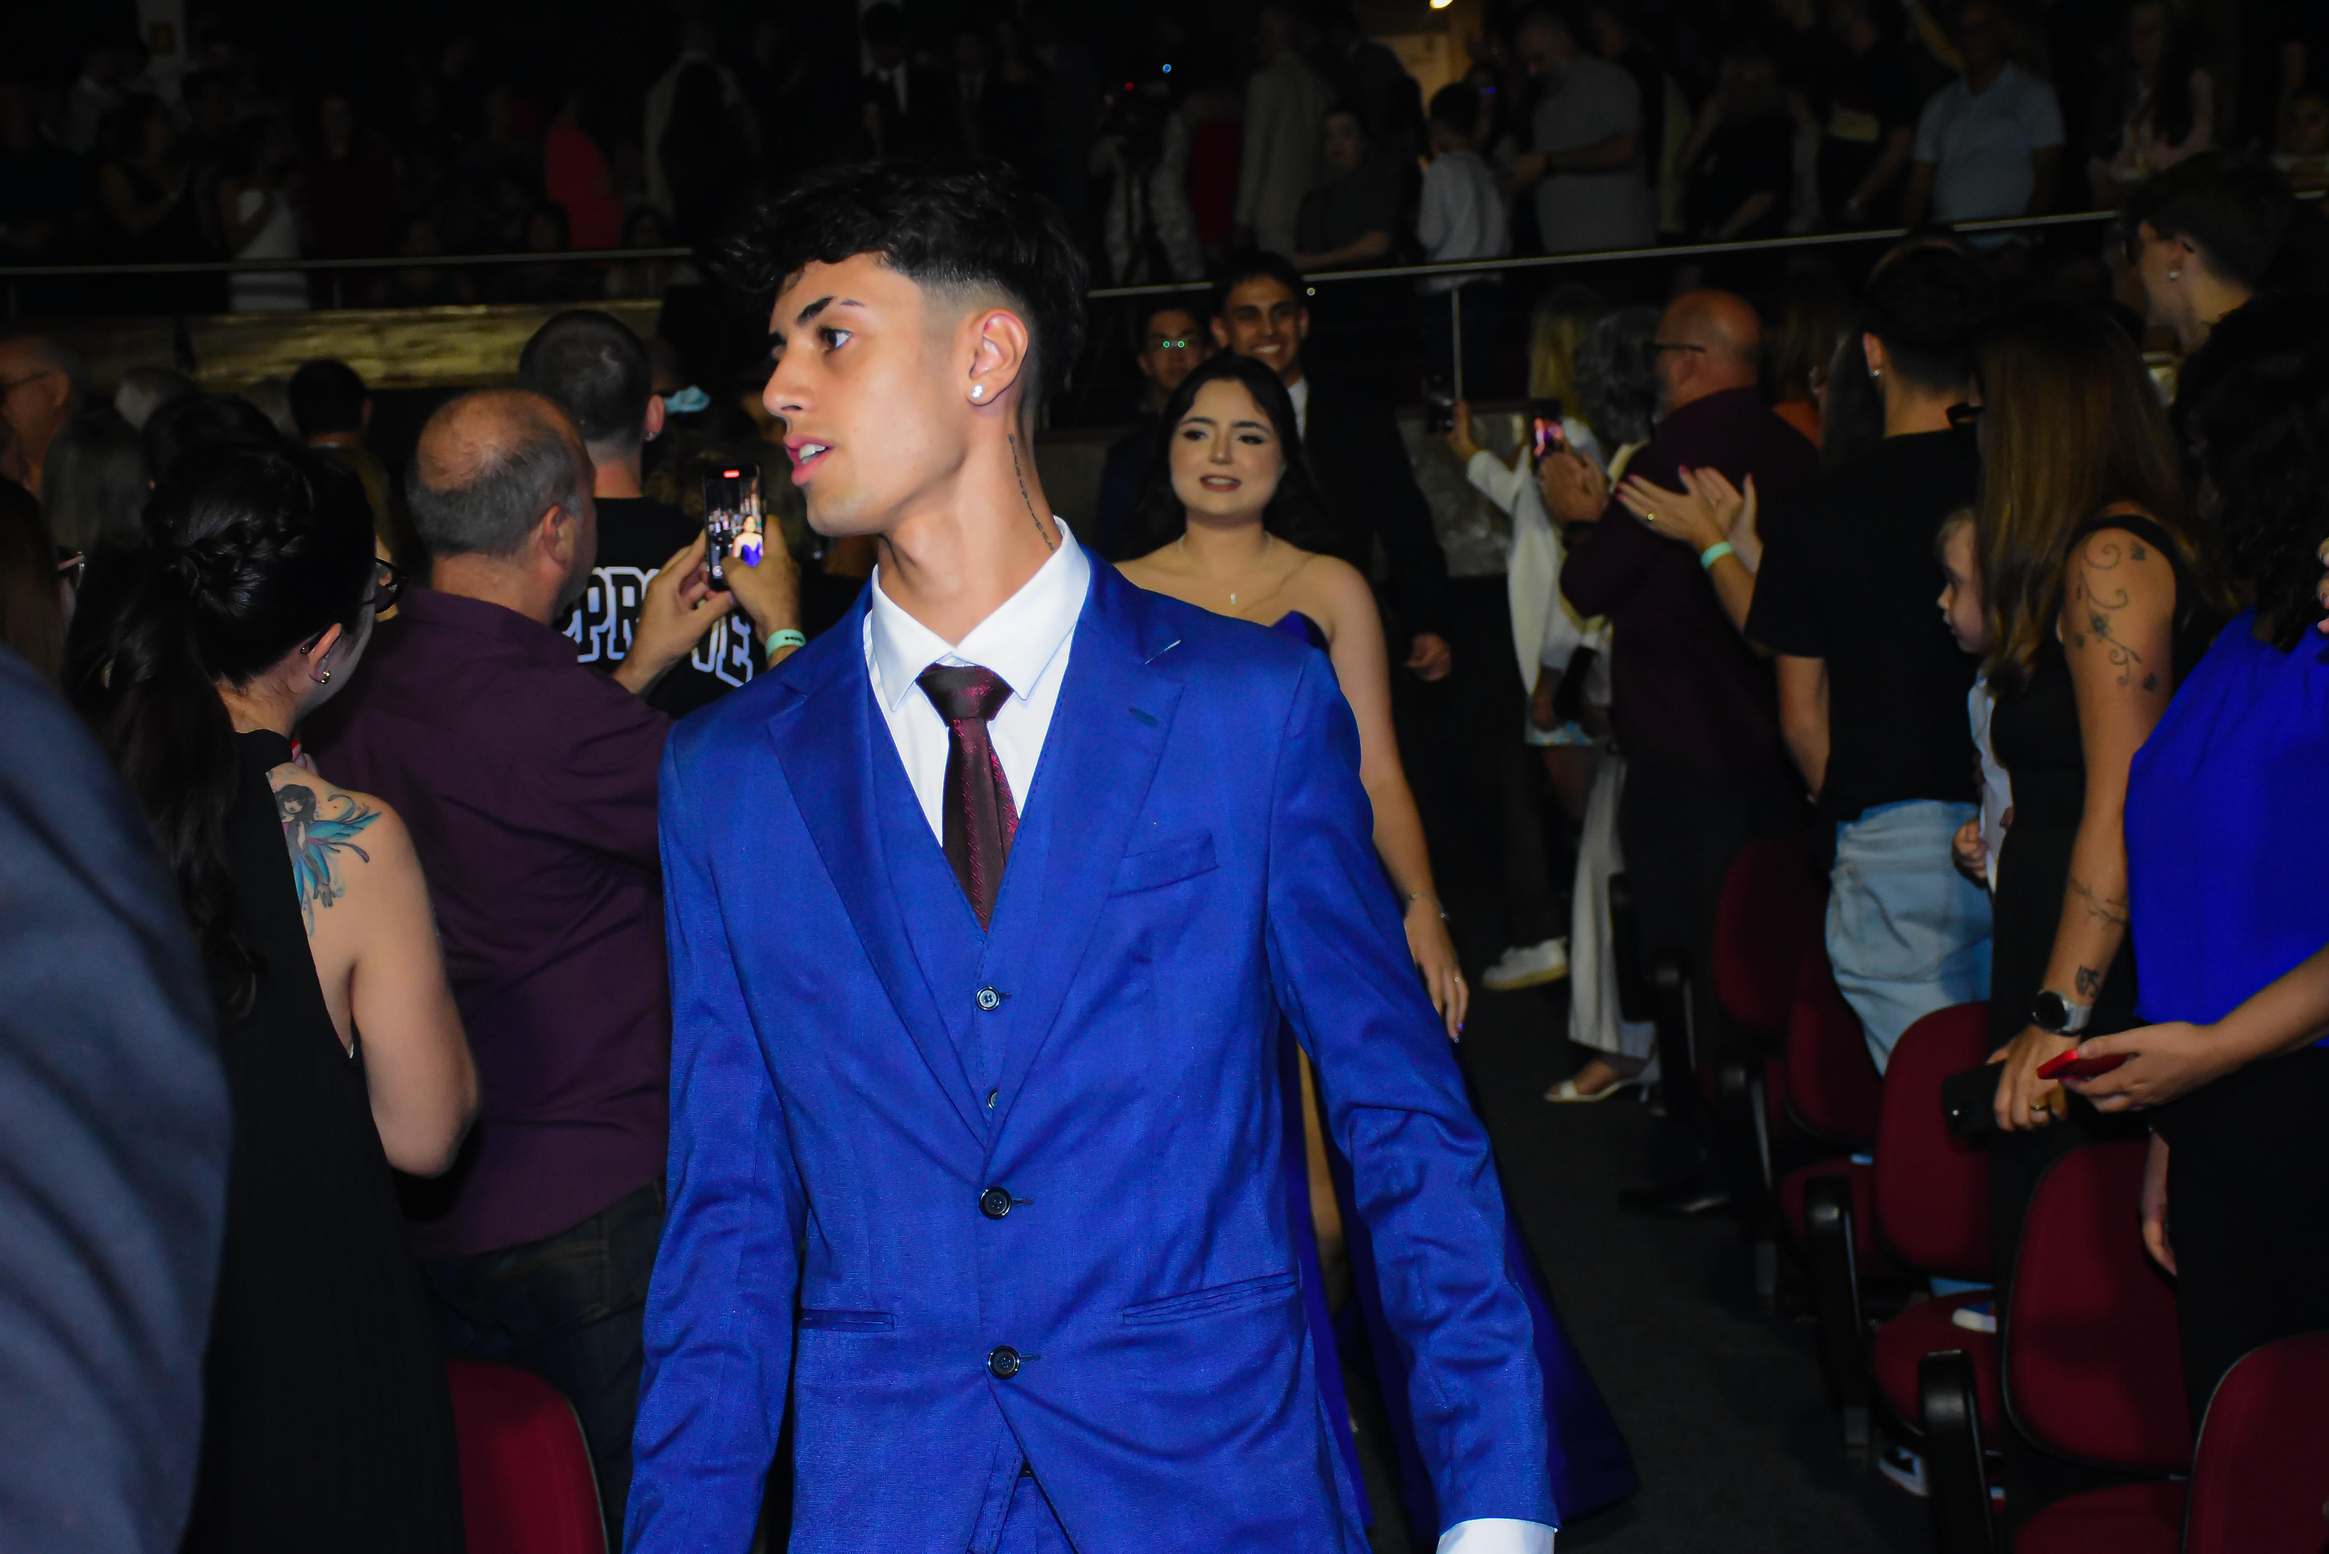
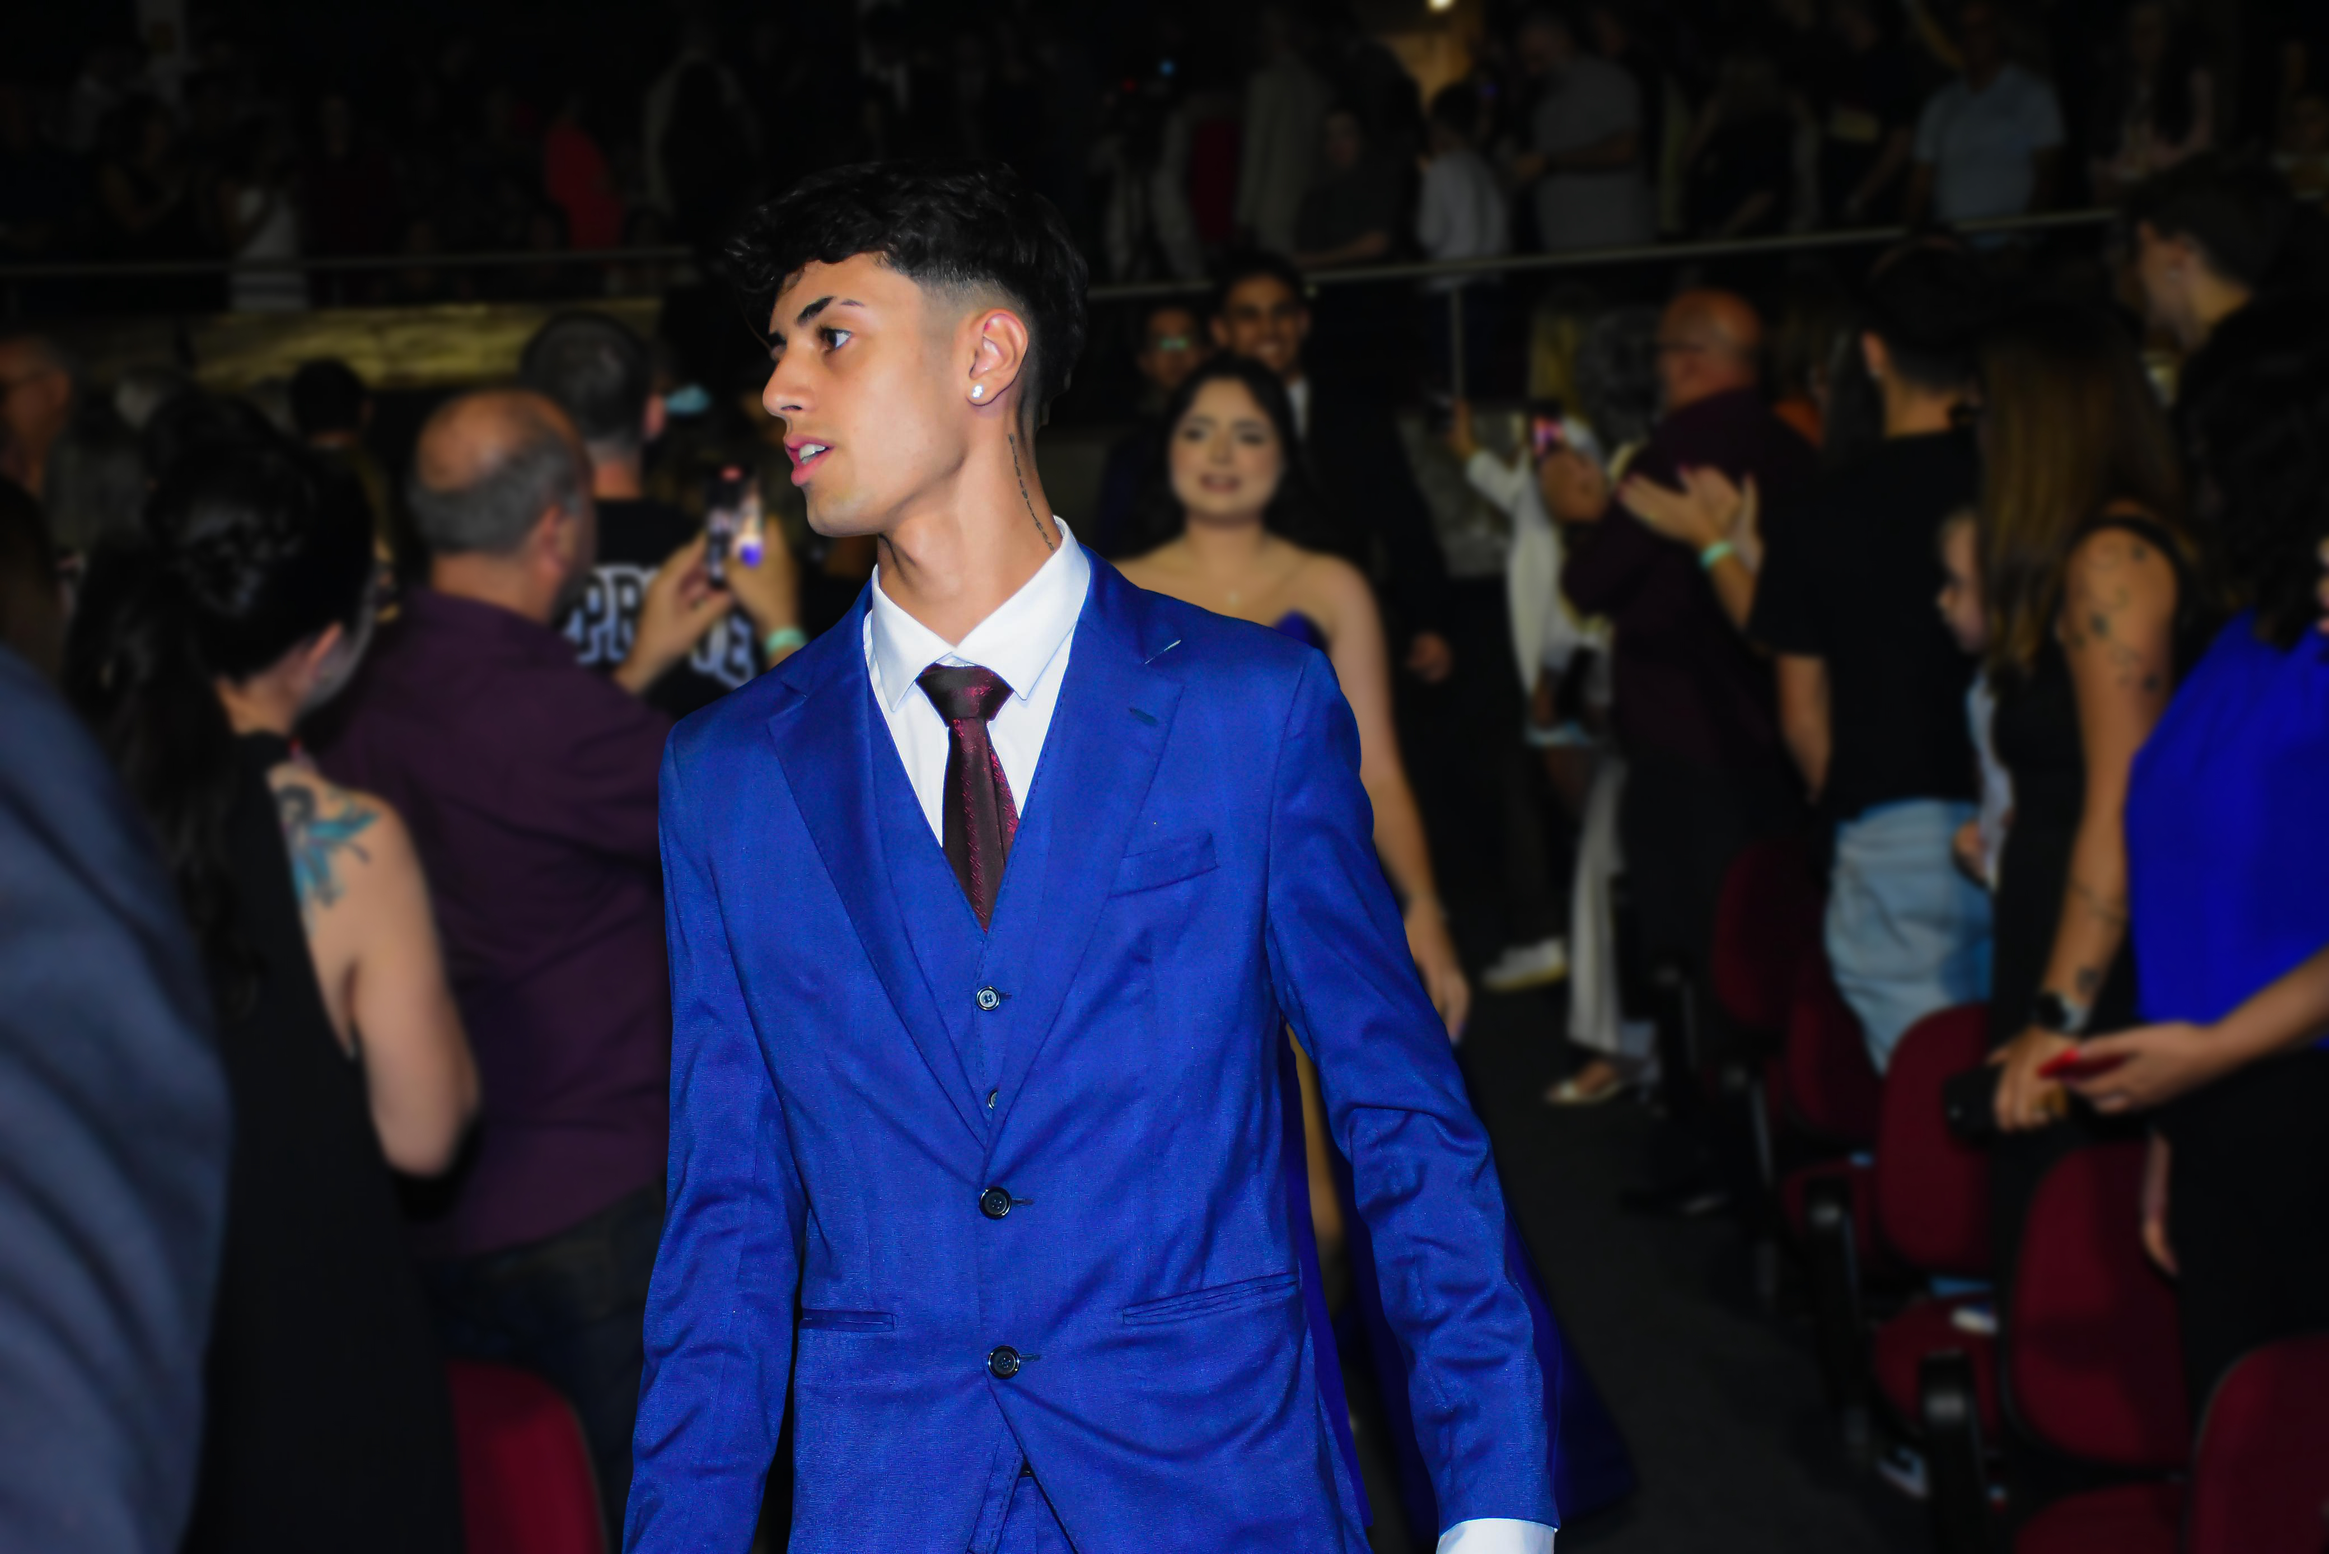
fundo blackout, remoção de bugs e ajuste de texto no hero

diff --git a/assets/css/style.css b/assets/css/style.css
@@ -227,17 +227,20 @@ h6 {
 
 /*--------------------------------------------------------------
 # Hero Section
---------------------------------------------------------------*/
+/*--------------------------------------------------------------*/
 #hero {
   width: 100%;
   height: 100vh;
   background: url("../img/hero-bg.jpg") top center;
   background-size: cover;
+  display: flex;
+  justify-content: flex-end; /* Empurra o conteúdo para a direita */
+  align-items: center;       /* Centraliza o texto verticalmente */
 }
 
 #hero:before {
   content: "";
-  background: rgba(5, 13, 24, 0.3);
+  background: rgba(5, 13, 24, 0.4); /* Escurece um pouco para dar mais leitura no fundo */
   position: absolute;
   bottom: 0;
   top: 0;
@@ -250,6 +253,8 @@ h6 {
   position: relative;
   z-index: 2;
   min-width: 300px;
+  margin-left: 25%;        /* Distância da borda direita */
+  text-align: left;         /* Mantém o texto alinhado à esquerda */
 }
 
 #hero h1 {
@@ -281,6 +286,15 @@ h6 {
 }
 
 @media (max-width: 768px) {
+  #hero {
+    justify-content: center; /* No celular centraliza para não vazar a tela */
+  }
+
+  #hero .hero-container {
+    margin-right: 0;
+    padding: 0 20px;
+  }
+
   #hero h1 {
     font-size: 28px;
     line-height: 36px;
